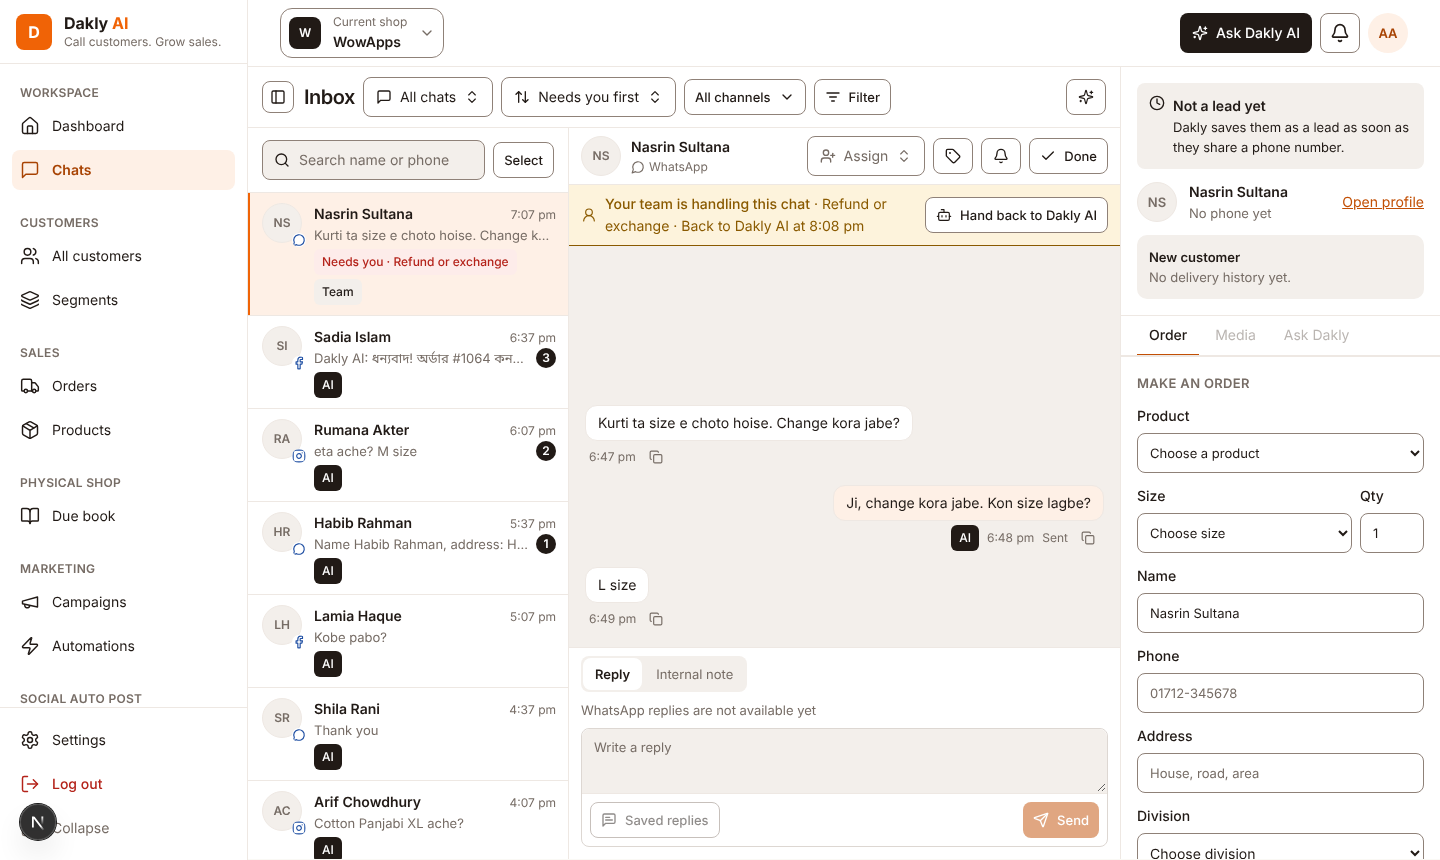
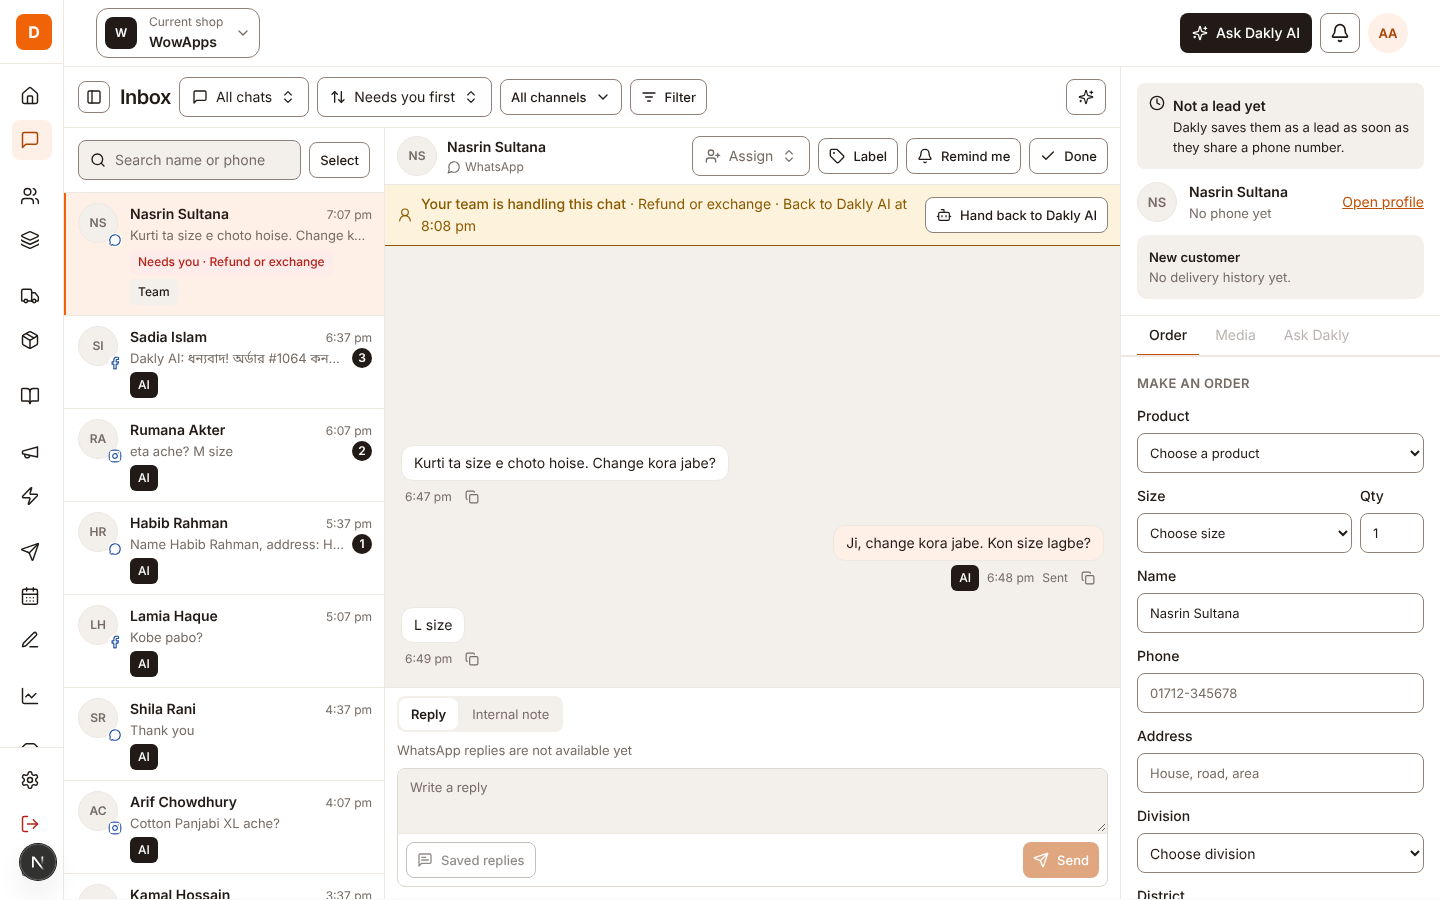
fix(chat-5): keep the Inbox in the window and show the navigation as a rail
The Inbox page scrolled because absolutely positioned hidden inputs and
screen-reader labels escaped their scroll boxes, and the main navigation
list could not shrink. The Inbox now asks the shell to show the navigation
as an icon rail, as in the Figma frame, and only its columns scroll.

diff --git a/apps/web/src/features/chats/components/chats.spec.tsx b/apps/web/src/features/chats/components/chats.spec.tsx
@@ -11,6 +11,7 @@ import { ToastProvider } from '@dakly/ui/toast';
 
 import { chatScreenQuerySchema } from '../chat-filters';
 import { ChatsScreen } from './chats-screen';
+import { ShellNavigationCollapse } from '@/components/shell-navigation-collapse';
 import { sessionContextKey } from '@/lib/session-context';
 
 vi.mock('next/navigation', () => ({
@@ -83,6 +84,8 @@ function sidebarResponse(path: string) {
   return undefined;
 }
 
+let setNavigationCollapsed = vi.fn();
+
 function show(query = defaults, access: Partial<SessionContext['currentStore']> = {}) {
   const client = new QueryClient({ defaultOptions: { queries: { retry: false } } });
   const context: SessionContext = {
@@ -126,9 +129,11 @@ function show(query = defaults, access: Partial<SessionContext['currentStore']> 
   client.setQueryData(sessionContextKey, context);
   return render(<ChatsScreen query={query} />, {
     wrapper: ({ children }) => (
-      <QueryClientProvider client={client}>
-        <ToastProvider>{children}</ToastProvider>
-      </QueryClientProvider>
+      <ShellNavigationCollapse value={setNavigationCollapsed}>
+        <QueryClientProvider client={client}>
+          <ToastProvider>{children}</ToastProvider>
+        </QueryClientProvider>
+      </ShellNavigationCollapse>
     ),
   });
 }
@@ -147,6 +152,7 @@ afterEach(() => {
   cleanup();
   vi.unstubAllGlobals();
   wideScreen = true;
+  setNavigationCollapsed = vi.fn();
   paths = [];
   connectionKinds = [];
   connectionsForbidden = false;
@@ -259,6 +265,15 @@ describe('Chat list', () => {
       screen.getByRole('button', { name: 'Collapse inbox folders' }).getAttribute('aria-expanded'),
     ).toBe('true');
     expect(screen.getByRole('navigation', { name: 'Chat tabs' })).toBeTruthy();
+  });
+
+  it('shows the main navigation as an icon rail while the Inbox is open', async () => {
+    respond(() => ok([sadia]));
+    const { unmount } = show();
+    expect(await screen.findByText('Sadia Islam')).toBeTruthy();
+    expect(setNavigationCollapsed).toHaveBeenLastCalledWith(true);
+    unmount();
+    expect(setNavigationCollapsed).toHaveBeenLastCalledWith(false);
   });
 
   it('starts with the Inbox folders collapsed on a narrow screen', async () => {

diff --git a/apps/web/src/components/shell-frame.tsx b/apps/web/src/components/shell-frame.tsx
@@ -8,6 +8,7 @@ import { cn } from '@dakly/ui/cn';
 import { AccountMenu } from './account-menu';
 import { MobileNavigation } from './mobile-navigation';
 import { ShellNavigation } from './shell-navigation';
+import { ShellNavigationCollapse } from './shell-navigation-collapse';
 import { StoreRequired } from './store-required';
 import { StoreSwitcher } from './store-switcher';
 
@@ -68,7 +69,9 @@ export function ShellFrame({
           className="mx-auto max-w-7xl has-[[data-full-width]]:max-w-none"
           key={`${data.contextTag}:${generation}`}
         >
-          {needsStore ? <StoreRequired hasMemberships={data.hasMemberships} /> : children}
+          <ShellNavigationCollapse value={setCollapsed}>
+            {needsStore ? <StoreRequired hasMemberships={data.hasMemberships} /> : children}
+          </ShellNavigationCollapse>
         </div>
       </div>
     </div>

diff --git a/apps/web/src/features/chats/components/customer-panel.tsx b/apps/web/src/features/chats/components/customer-panel.tsx
@@ -25,10 +25,12 @@ export function CustomerPanel({
   const { data: session } = useSessionContext();
   const contact = useChatContact(conversation.contactId);
   return (
+    // Relative keeps the checkbox's hidden form input inside this scroll box; without it
+    // the input is placed against the page and makes the whole Inbox scroll.
     <aside
       aria-label="Customer"
       className={cn(
-        'col-start-1 row-start-2 min-h-0 min-w-0 flex-col overflow-y-auto border-border bg-surface lg:col-start-2 lg:border-l xl:col-start-3 xl:row-span-2 xl:row-start-1',
+        'relative col-start-1 row-start-2 min-h-0 min-w-0 flex-col overflow-y-auto border-border bg-surface lg:col-start-2 lg:border-l xl:col-start-3 xl:row-span-2 xl:row-start-1',
         query.panel ? 'flex' : 'hidden xl:flex',
       )}
     >

diff --git a/apps/web/src/features/chats/components/chats-screen.tsx b/apps/web/src/features/chats/components/chats-screen.tsx
@@ -16,6 +16,7 @@ import { ChatToolbar } from './chat-search-bar';
 import { ChatTabs } from './chat-tabs';
 import { CommentsView } from './comments-view';
 import { ConversationPanel } from './conversation-panel';
+import { useCollapsedShellNavigation } from '@/components/shell-navigation-collapse';
 import { useUrlQuery } from '@/lib/use-url-query';
 
 export function ChatsScreen({ query: initial }: { query: ChatScreenQuery }) {
@@ -23,6 +24,7 @@ export function ChatsScreen({ query: initial }: { query: ChatScreenQuery }) {
   const router = useRouter();
   const withoutAgent = { ...query, agent: undefined, feedback: undefined };
   const folders = useInboxFolders();
+  useCollapsedShellNavigation();
   return (
     <main
       data-full-width

diff --git a/apps/web/src/components/shell-navigation-collapse.ts b/apps/web/src/components/shell-navigation-collapse.ts
@@ -1,0 +1,14 @@
+'use client';
+import { createContext, useContext, useEffect } from 'react';
+
+export const ShellNavigationCollapse = createContext<(collapsed: boolean) => void>(() => {});
+
+// Screens that need the full width, such as the Inbox, show the main navigation as an icon rail.
+// The person can still open it; leaving the screen opens it again.
+export function useCollapsedShellNavigation() {
+  const setCollapsed = useContext(ShellNavigationCollapse);
+  useEffect(() => {
+    setCollapsed(true);
+    return () => setCollapsed(false);
+  }, [setCollapsed]);
+}

diff --git a/apps/web/src/components/shell-navigation.tsx b/apps/web/src/components/shell-navigation.tsx
@@ -289,7 +289,8 @@ function NavigationGroups({
 }: { groups: NavigationGroup[] } & Pick<ShellNavigationProps, 'collapsed' | 'onNavigate'>) {
   const groupId = useId();
   return (
-    <div className="flex-1 space-y-4 overflow-y-auto p-3">
+    // Relative keeps the collapsed rail's screen-reader labels inside this scroll box.
+    <div className="relative min-h-0 flex-1 space-y-4 overflow-y-auto p-3">
       {groups.map((group, index) => (
         <div
           key={group.heading}

diff --git a/docs/features/04-chats-and-ai-agent.md b/docs/features/04-chats-and-ai-agent.md
@@ -23,7 +23,7 @@ The product requirements below are the PRD text from 12 November 2026. Where a l
 
 ## Inbox layout
 
-The Inbox fills the full width of the workspace with the folder list, conversation list, thread, and customer and order panel side by side. The folder column starts open at 1,536px and wider and collapsed below that, where the folder picker in the toolbar takes its place; collapsing it moves the Inbox title and toggle into the toolbar. Below 1,280px the customer panel opens from the Customer button, and on phones opening a chat or the customer panel takes the place of the list. Sort, channel and filters are in the toolbar; Saved replies and Send share the composer footer. Reply and Internal note keep separate drafts. Opening a conversation shows the latest messages, and loading earlier ones keeps the current messages in view.
+The Inbox fills the full width and height of the workspace, with the main navigation shown as an icon rail and only the columns scrolling, with the folder list, conversation list, thread, and customer and order panel side by side. The folder column starts open at 1,536px and wider and collapsed below that, where the folder picker in the toolbar takes its place; collapsing it moves the Inbox title and toggle into the toolbar. Below 1,280px the customer panel opens from the Customer button, and on phones opening a chat or the customer panel takes the place of the list. Sort, channel and filters are in the toolbar; Saved replies and Send share the composer footer. Reply and Internal note keep separate drafts. Opening a conversation shows the latest messages, and loading earlier ones keeps the current messages in view.
 
 ## Product requirements
 
